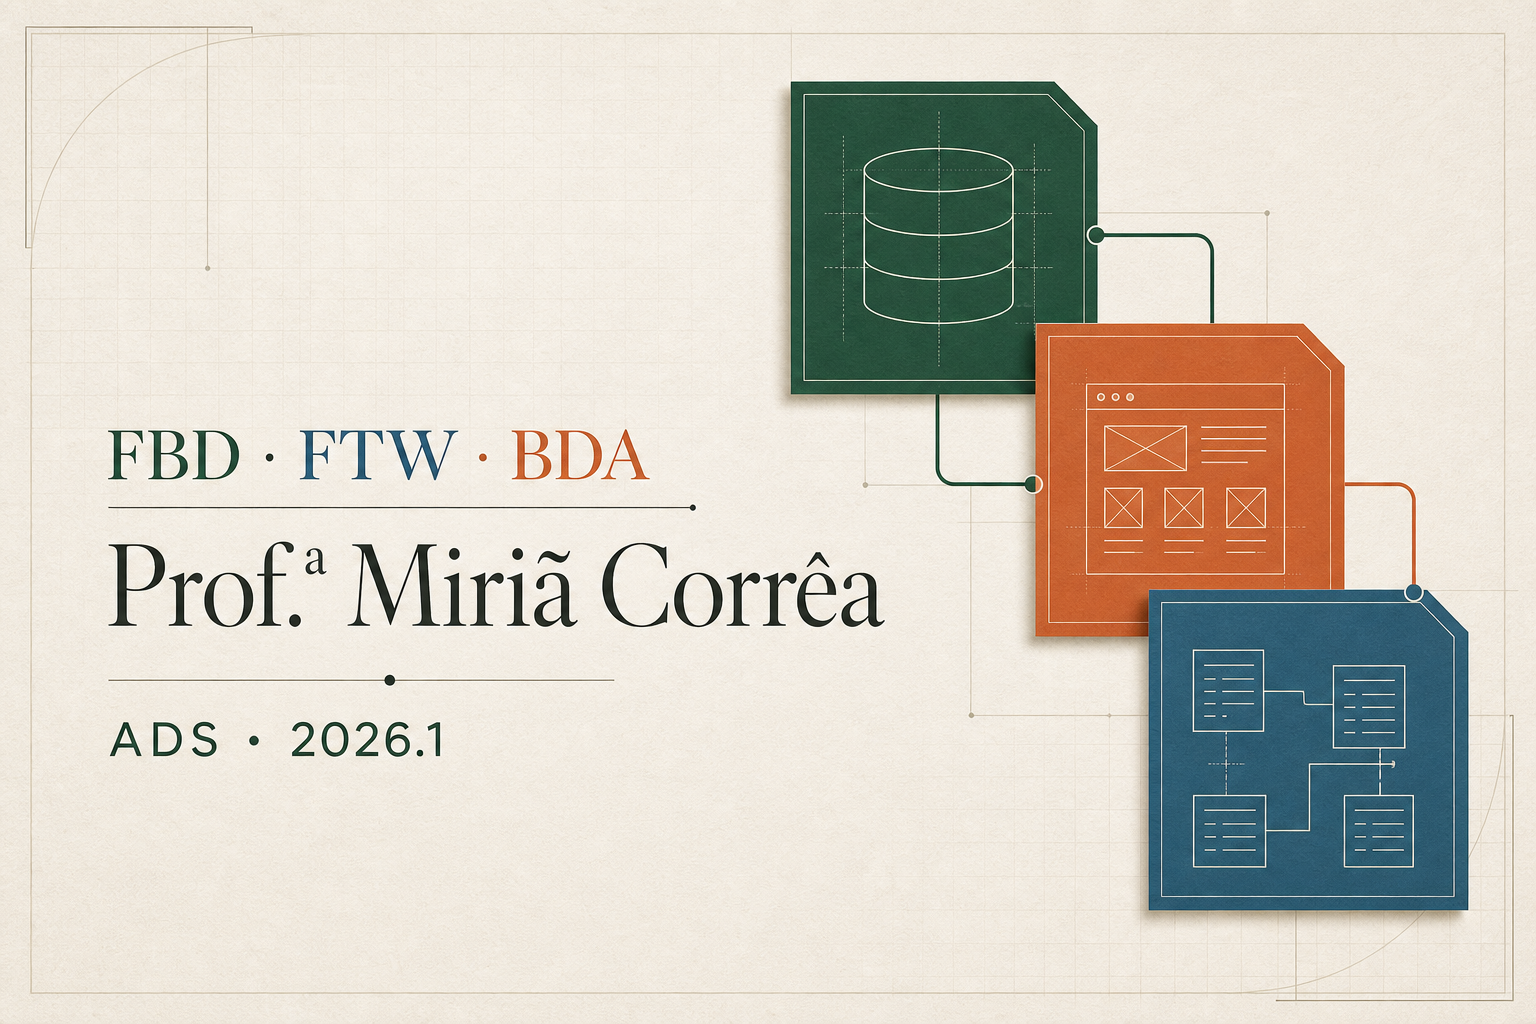
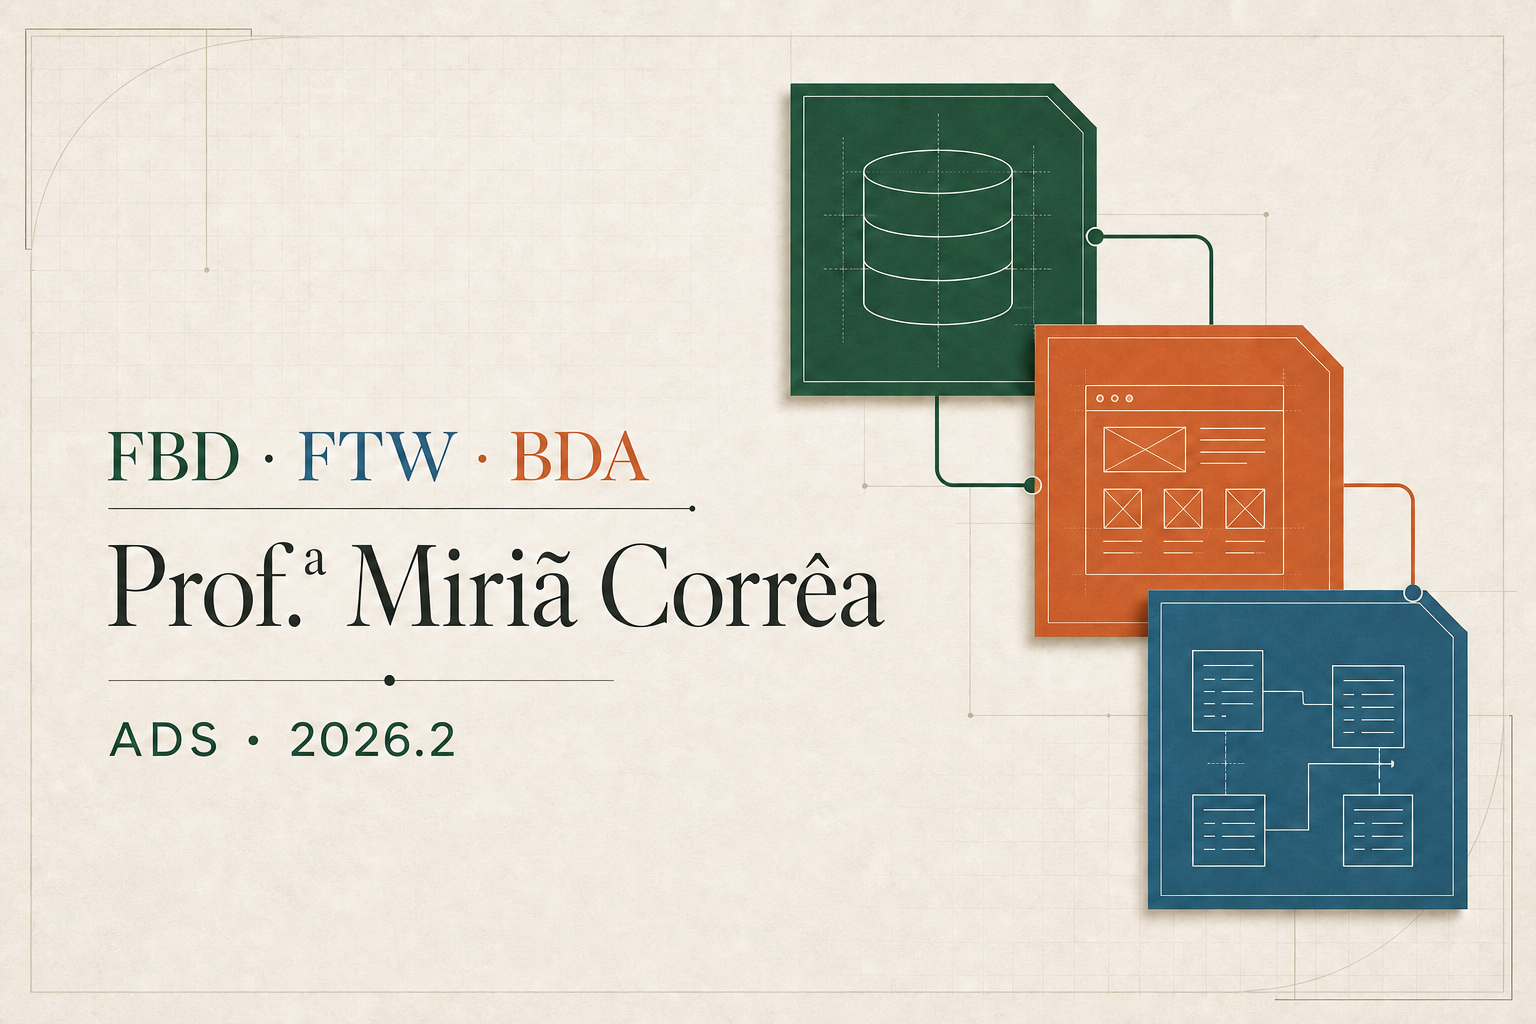
Atualizar portal para 2026.2

diff --git a/app/page.tsx b/app/page.tsx
@@ -95,7 +95,7 @@ export default function Home() {
         <nav aria-label="Navegação principal">
           <a href="#disciplinas">Disciplinas</a>
           <a href="#semanas">Semanas</a>
-          <span className="period">2026.1</span>
+          <span className="period">2026.2</span>
         </nav>
       </header>
 
@@ -181,7 +181,7 @@ export default function Home() {
       </section>
 
       <footer>
-        <div className="footer-brand"><span className="brand-mark">MC</span><div><strong>Prof.ª Miriã Corrêa</strong><small>ADS · 2026.1</small></div></div>
+        <div className="footer-brand"><span className="brand-mark">MC</span><div><strong>Prof.ª Miriã Corrêa</strong><small>ADS · 2026.2</small></div></div>
         <p>Ensinar é criar condições para que cada pessoa encontre o seu caminho.</p>
         <a href="#inicio">Voltar ao topo ↑</a>
       </footer>

diff --git a/INSTRUCOES-PUBLICACAO.md b/INSTRUCOES-PUBLICACAO.md
@@ -1,0 +1,29 @@
+# Portal das Disciplinas — 2026/2
+
+Este pacote contém o portal das disciplinas FBD, FTW e BDA da Prof.ª Miriã Corrêa.
+
+## Requisitos
+
+- Node.js 22.13 ou superior
+- npm ou pnpm
+
+## Executar localmente
+
+1. Instale as dependências com `npm install` ou `pnpm install`.
+2. Inicie o ambiente local com `npm run dev` ou `pnpm dev`.
+3. Abra o endereço informado no terminal.
+
+## Gerar a versão de produção
+
+1. Execute `npm run build` ou `pnpm build`.
+2. A saída de produção será criada na pasta `dist`.
+
+## Publicação
+
+O projeto utiliza vinext e gera uma aplicação compatível com Cloudflare Workers. Para publicar com o código-fonte, importe o repositório em uma plataforma compatível e configure o comando de build como `npm run build`.
+
+O pacote de produção fornecido separadamente já contém a pasta `dist` gerada e os metadados necessários para uma implantação compatível.
+
+## Conteúdos
+
+Os arquivos HTML e as imagens das 60 semanas estão em `public/conteudos`, organizados por disciplina.
